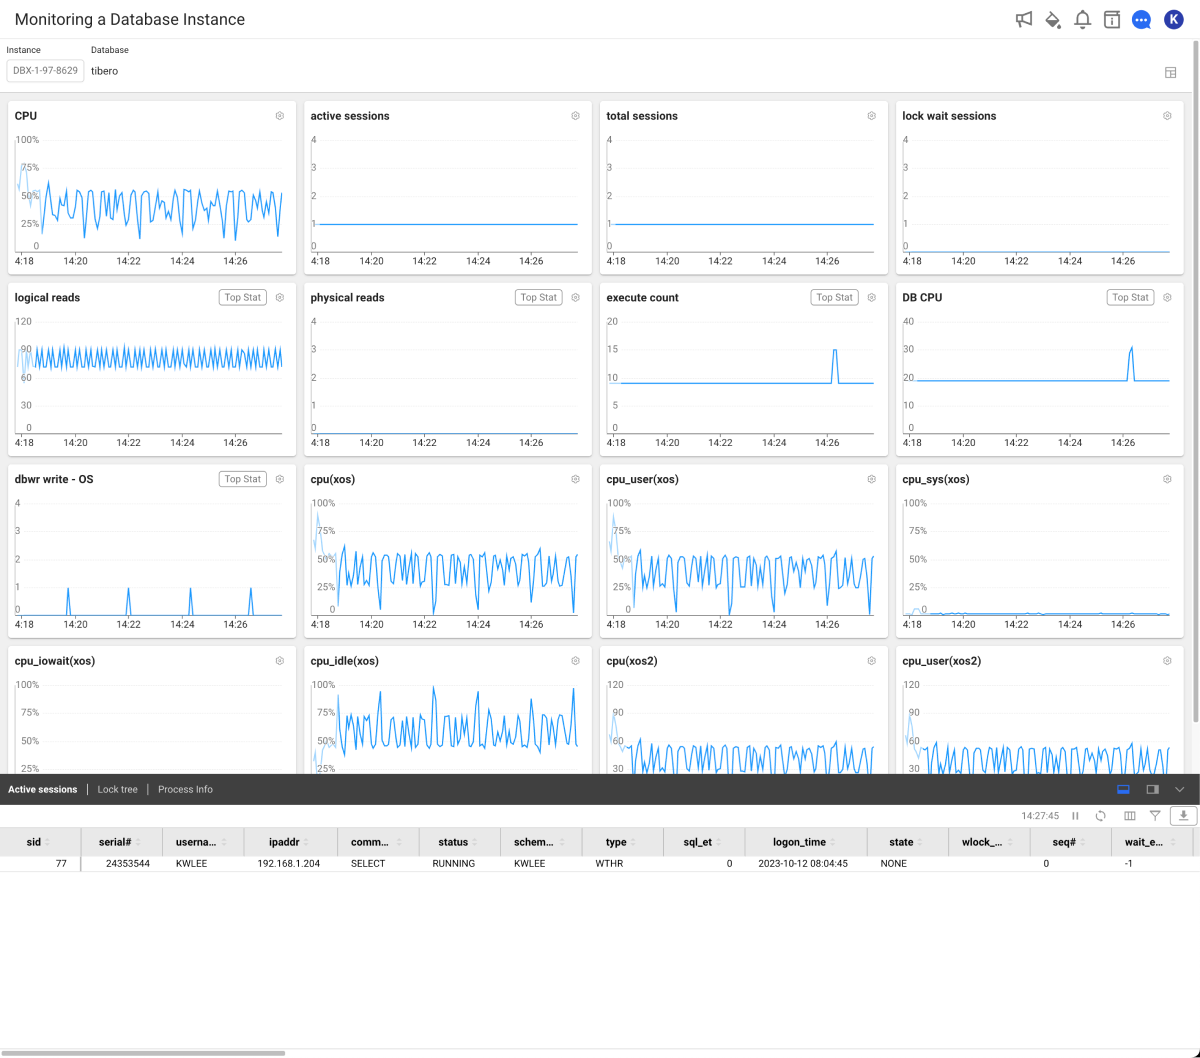
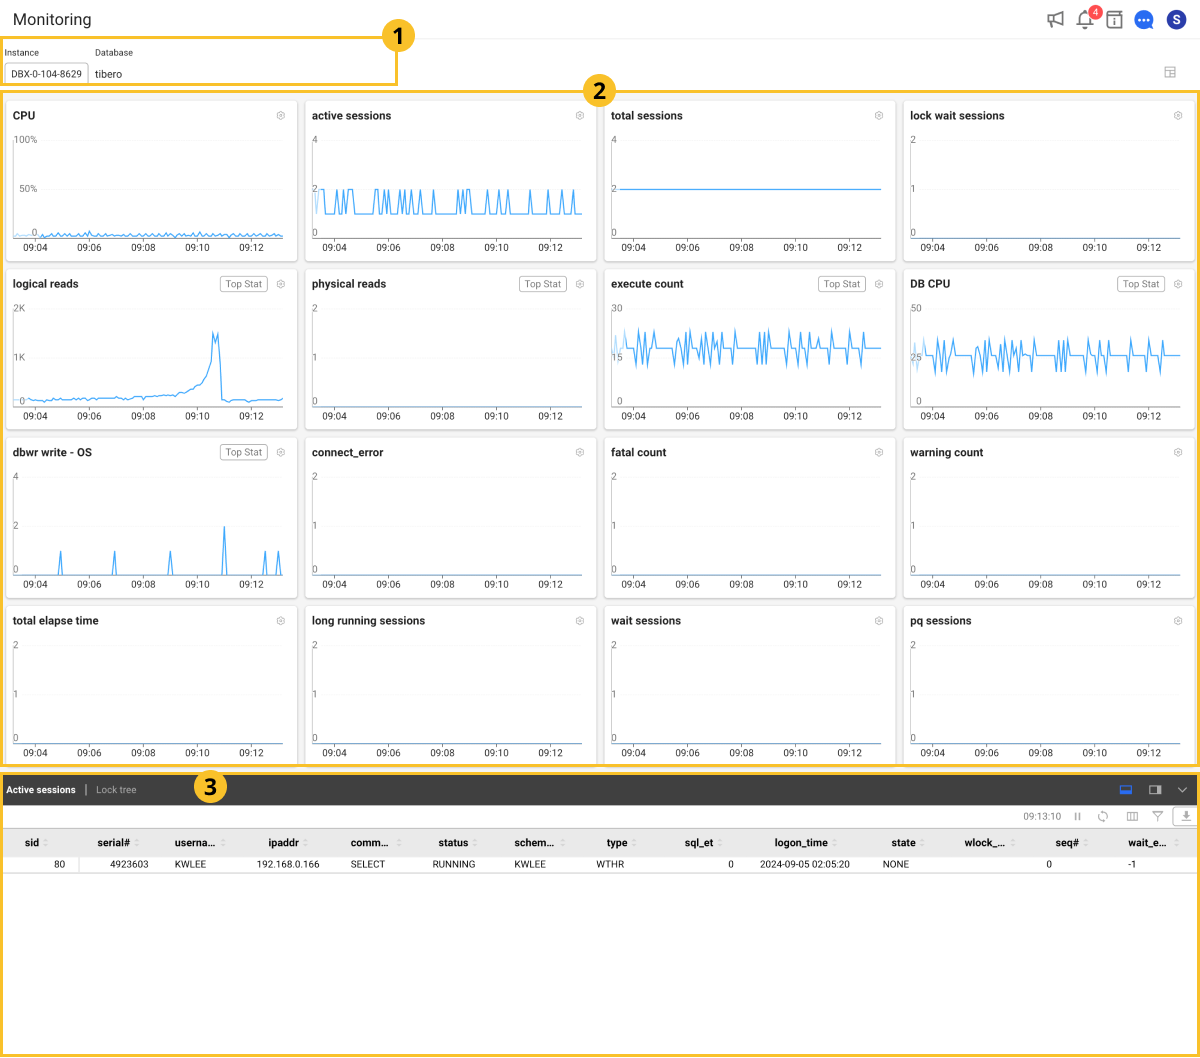
update images & sidebars

diff --git a/sidebars.js b/sidebars.js
@@ -2559,6 +2559,18 @@ const sidebars = {
             },
             {
               type: 'category',
+              label: '분석',
+              collapsible: true,
+              collapsed: true,
+              items: [
+                'tibero/analysis-count-trend',
+                // 'oracle-v1/analysis-lock-and-deadlock',
+                // 'oracle-v1/analysis-pq-tree',
+                // 'oracle-v1/analysis-databaseparameter',
+              ]
+            },
+            {
+              type: 'category',
               label: '메트릭스',
               collapsible: true,
               collapsed: true,
